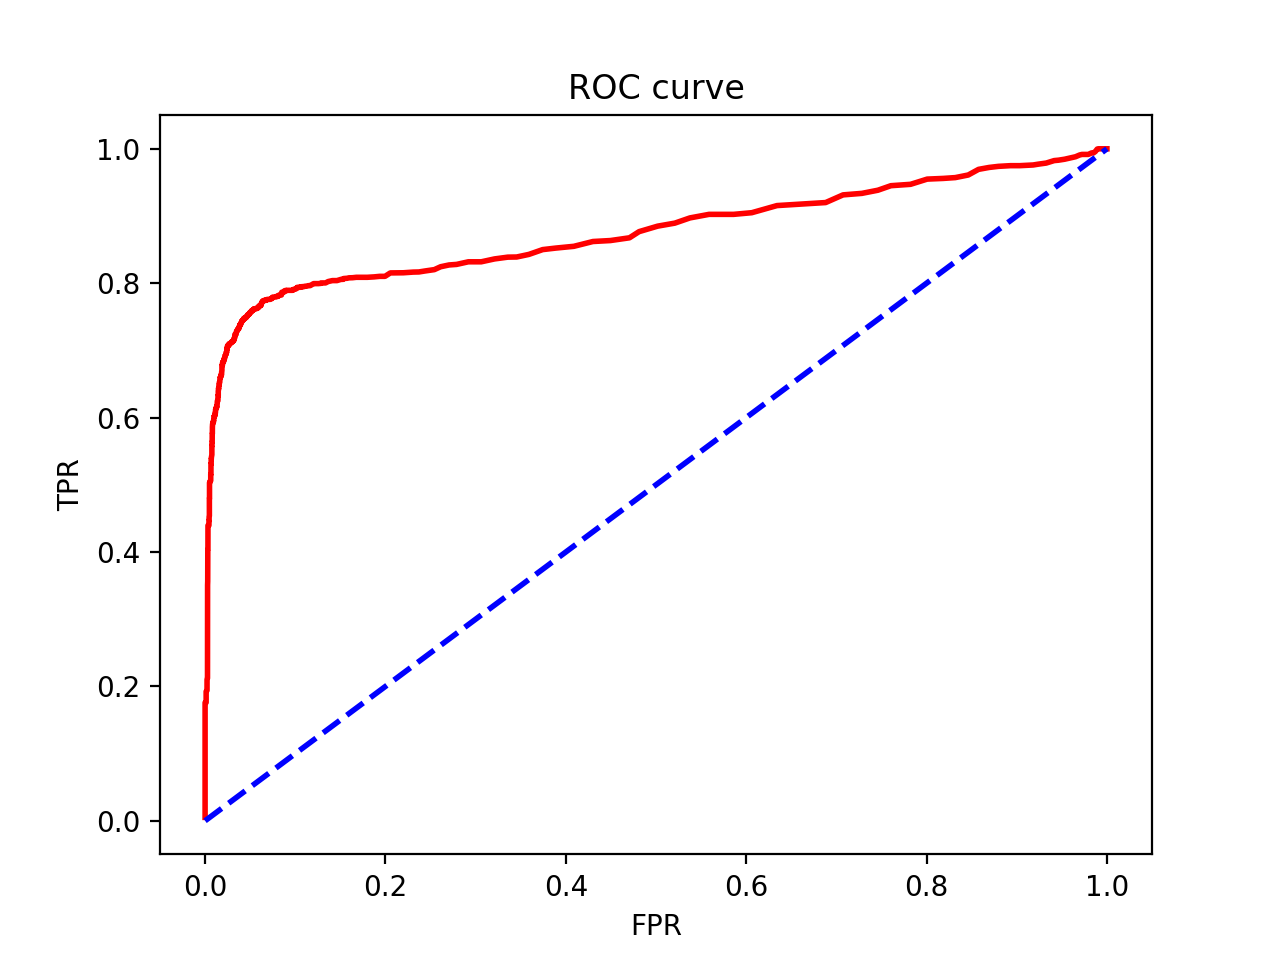
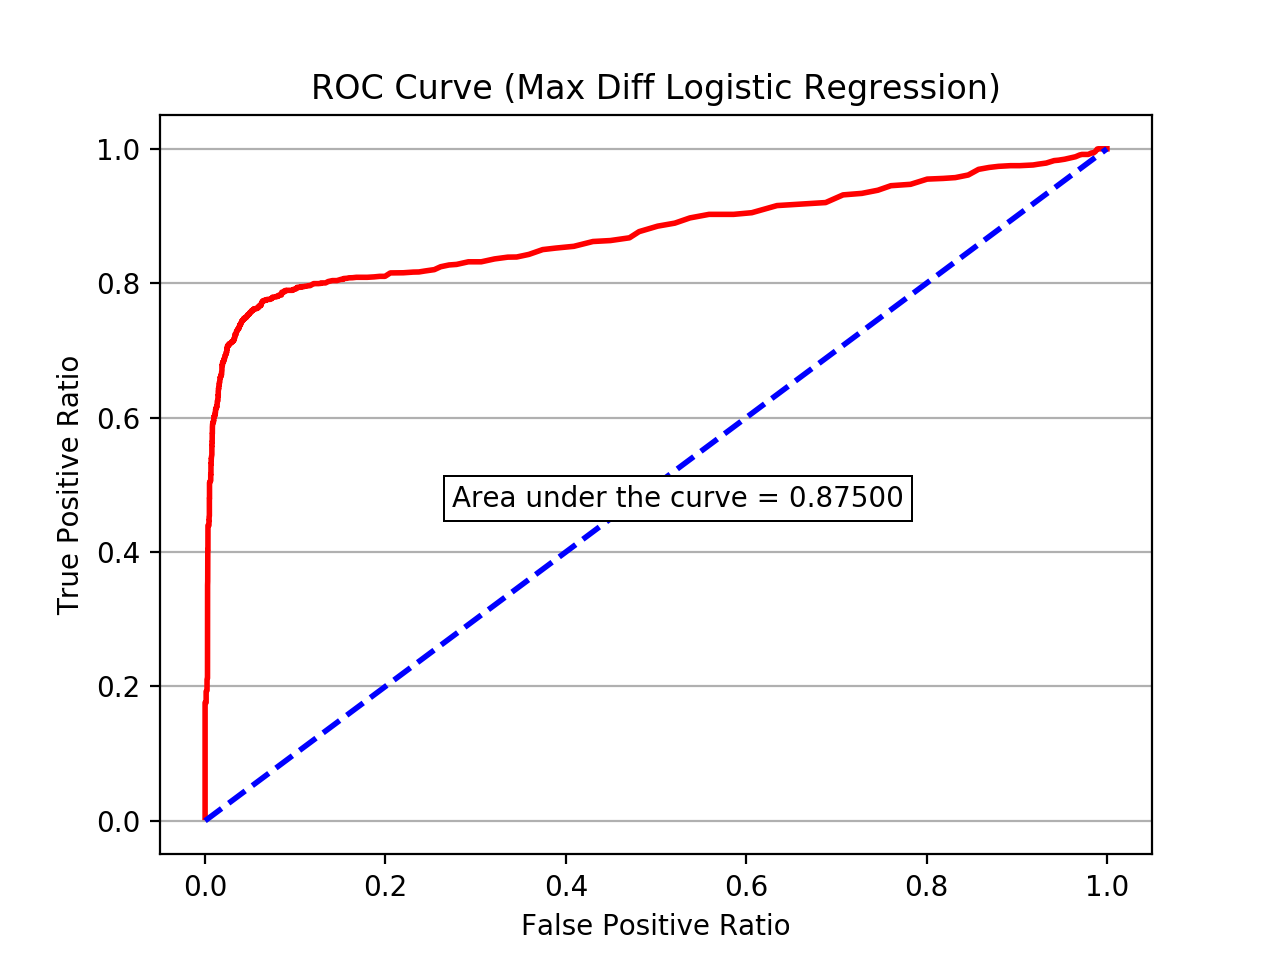
Add labels for roc model score

diff --git a/phase_2_training_data_creator.py b/phase_2_training_data_creator.py
@@ -1,6 +1,6 @@
 # coding: latin-1
 
-import datetime, cv2, argparse, csv
+import datetime, cv2, argparse, csv, numpy as np
 from collections import deque
 from data_point import DataPoint
 
@@ -27,8 +27,20 @@ eeg_location = './data/eeg/' + args.id + '.csv'
 training_data_location = './data/training_data/' + args.processing_func + args.id
 
 # get_max_diff gets the max difference between the lowest and highest values in the buffer
-def get_max_diff(buf):
-    return max(buf) - min(buf)
+def get_max_diff(buff):
+    return max(buff) - min(buff)
+
+# get_mean gets the mean of values in the buffer
+def get_mean(buff):
+    return np.mean(np.absolute(buff))
+
+# apply_processing_func applies the corresponding processing func
+def apply_processing_func(buff):
+    if args.processing_func == 'max_diff':
+        return get_max_diff(buff)
+    elif args.processing_func == 'mean':
+        return get_mean(buff)
+
 
 # unix_time_millis
 def unix_time_millis(dt):
@@ -85,7 +97,7 @@ while counter < len(eeg_lines):
     if counter >= next_true_index:
         counter_two = args.buffer_size * 2
         while counter_two > 0:
-            training_data_file.write(eeg_lines[counter].time + ',' + str(get_max_diff(buffer)) + ',True\n')
+            training_data_file.write(eeg_lines[counter].time + ',' + str(apply_processing_func(buffer)) + ',True\n')
             counter_two -= 1
             counter += 1
             if counter == len(eeg_lines):
@@ -96,7 +108,7 @@ while counter < len(eeg_lines):
         else:
             next_true_index = 9999999999
     else:
-        training_data_file.write(eeg_lines[counter].time + ',' + str(get_max_diff(buffer)) + ',False\n')
+        training_data_file.write(eeg_lines[counter].time + ',' + str(apply_processing_func(buffer)) + ',False\n')
         counter += 1
         if counter < len(eeg_lines):
             buffer.append(eeg_lines[counter].raw)

diff --git a/phase_4_blink_detection.py b/phase_4_blink_detection.py
@@ -14,6 +14,9 @@ parser.add_argument('--model_id', help='Required model id', type=str)
 # Optional used buffer size in previous phases
 parser.add_argument('--used_buffer_size', help='Optional used buffer size in previous phases', default=35, type=int)
 
+# Optional used function to process buffer
+parser.add_argument('--used_processing_func', help='Optional used function to process buffer. Options are \'max_diff\' and \'mean\'', default='max_diff', type=str)
+
 # Parse srguments
 args = parser.parse_args()
 
@@ -22,6 +25,19 @@ model_location = './data/model/' + args.model_id
 # get_max_diff gets the max difference between the lowest and highest values in the buffer
 def get_max_diff(buf):
     return max(buf) - min(buf)
+
+# get_mean gets the mean of values in the buffer
+def get_mean(buff):
+    return np.mean(np.absolute(buff))
+
+
+# apply_processing_func applies the corresponding processing func
+def apply_processing_func(buff):
+    if args.processing_func == 'max_diff':
+        return get_max_diff(buff)
+    elif args.processing_func == 'mean':
+        return get_mean(buff)
+
 
 model = pickle.load(open(model_location, 'rb'))
 
@@ -47,7 +63,7 @@ while len(buffer) < buffer.maxlen:
 blinking_counter = 0
 blinking = False
 while True:
-    if model.predict(np.array([get_max_diff(buffer)]).reshape(1, -1))[0]:
+    if model.predict(np.array([apply_processing_func(buffer)]).reshape(1, -1))[0]:
         if not blinking:
             blinking = True
             blinking_counter += 1

diff --git a/rocurve.py b/rocurve.py
@@ -37,13 +37,15 @@ model_score = roc_auc_score(output, input)
 print('Model score: ' + str(model_score))
 
 plt.figure()
-# Adding the ROC
-plt.plot(fpr, tpr, color='red',
-lw=2, label='ROC curve')
-# Random FPR and TPR
+plt.plot(fpr, tpr, color='red', lw=2, label='ROC curve')
 plt.plot([0, 1], [0, 1], color='blue', lw=2, linestyle='--')
 # Title and label
-plt.xlabel('FPR')
-plt.ylabel('TPR')
-plt.title('ROC curve')
+plt.xlabel('False Positive Ratio')
+plt.ylabel('True Positive Ratio')
+plt.title('ROC Curve (Max Diff Logistic Regression)')
+bbox_props = dict(boxstyle='square,pad=0.3', fc='w', ec='k', lw=0.72)
+kw = dict(xycoords='data',textcoords="axes fraction", bbox=bbox_props, ha='right', va='top')
+area_under_curve = 'Area under the curve = {:.5f}'.format(model_score)
+plt.annotate(area_under_curve, xy=(0.5, 0.5), xytext=(0.75, 0.5), **kw)
+plt.grid(b=True, which='major', linestyle='-', axis='y')
 plt.show()
